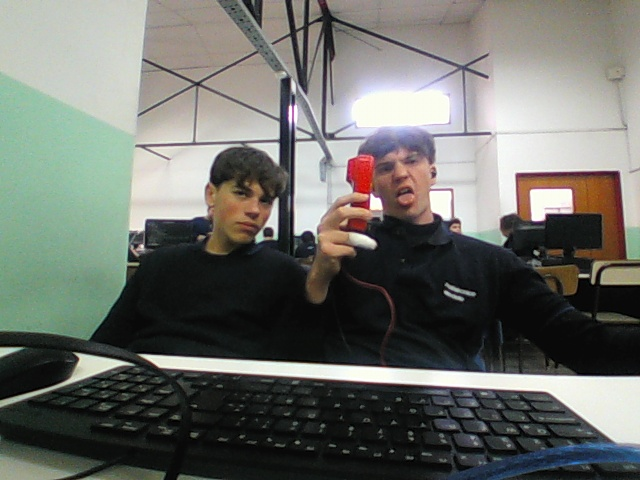
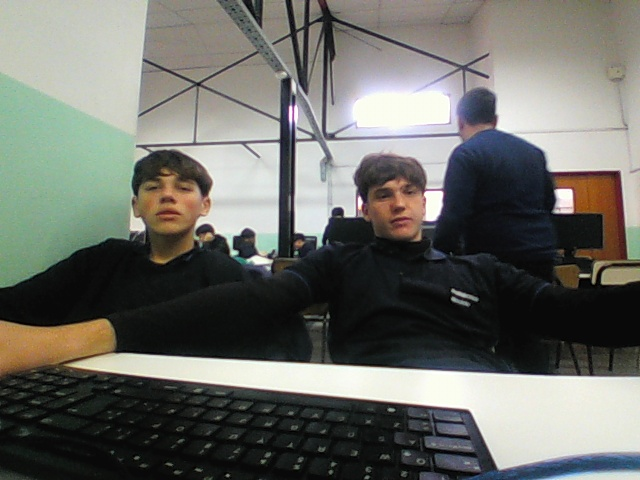
toma pa vos san

diff --git a/codigos/pruebas/fotopyserial.py b/codigos/pruebas/fotopyserial.py
@@ -1,50 +1,46 @@
 import serial
 import cv2
 import os
-import time 
-# Ruta personalizada (puedes cambiarla)
-ruta_guardado = "/home/ta-te-ti/Escritorio/Tateti/Proyecto-Ta-te-ti/imagenes/pygamefoto1.jpg"
+import time
 
-# Asegúrate de que la carpeta exista
+
+from analIsis import detectar_rojo_en_imagen
+
+# Ruta personalizada
+ruta_guardado = "/home/ta-te-ti/Escritorio/Tateti/Proyecto-Ta-te-ti/imagenes/pygamefoto1.jpg"
 os.makedirs(os.path.dirname(ruta_guardado), exist_ok=True)
 
-# Abrir la cámara
+# Abrir cámara
 cap = cv2.VideoCapture(0)
 if not cap.isOpened():
     print("No se pudo abrir la cámara.")
     exit()   
 
-
-
-# Cambia 'COM3' por el puerto de tu Arduino.
-# En Linux probablemente sea '/dev/ttyUSB0' o '/dev/ttyACM0'
+# Conexión serial
 puerto = '/dev/ttyUSB0'
 baudrate = 9600
-
-# Abre la conexión serial
 ser = serial.Serial(puerto, baudrate, timeout=1)
 
 print("Escuchando datos del Arduino...")
 
 try:
     while True:
-        # Lee una línea del puerto serial
         ret, frame = cap.read()
-        if ser.in_waiting>0:
+        if ser.in_waiting > 0:
             linea = ser.readline().decode('utf-8').strip()
-            
-            print(f"Arduino dice:{linea}")
+            print(f"Arduino dice: {linea}")
+
             if ret:
                 cv2.imwrite(ruta_guardado, frame)
-                print(f"Foto guardada en: {ruta_guardado}") 
+                print(f"📸 Foto guardada en: {ruta_guardado}")
+
+               
+                detectar_rojo_en_imagen(ruta_guardado)
             else:
-                print("No se pudo capturar la imagen")
-            
-                
+                print("❌ No se pudo capturar la imagen")
 
 except KeyboardInterrupt:
     print("Programa terminado por el usuario.")
 finally:
     ser.close()
-
-cap.release()
+    cap.release()

diff --git a/codigos/pruebas/analIsis.py b/codigos/pruebas/analIsis.py
@@ -1,0 +1,41 @@
+import cv2
+import numpy as np
+
+def detectar_rojo_en_imagen(ruta_imagen):
+    imagen = cv2.imread(ruta_imagen)
+    if imagen is None:
+        print("⚠ No se pudo cargar la imagen.")
+        return
+
+    alto, ancho = imagen.shape[:2]
+    tercio_alto = alto // 3
+    tercio_ancho = ancho // 3
+
+    hsv = cv2.cvtColor(imagen, cv2.COLOR_BGR2HSV)
+
+    rojo_bajo1 = np.array([0, 100, 100])
+    rojo_alto1 = np.array([10, 255, 255])
+    rojo_bajo2 = np.array([160, 100, 100])
+    rojo_alto2 = np.array([180, 255, 255])
+
+    mascara1 = cv2.inRange(hsv, rojo_bajo1, rojo_alto1)
+    mascara2 = cv2.inRange(hsv, rojo_bajo2, rojo_alto2)
+    mascara_rojo = cv2.bitwise_or(mascara1, mascara2)
+
+    contornos, _ = cv2.findContours(mascara_rojo, cv2.RETR_EXTERNAL, cv2.CHAIN_APPROX_SIMPLE)
+
+    celdas_detectadas = set()
+
+    for contorno in contornos:
+        area = cv2.contourArea(contorno)
+        if area > 100:
+            M = cv2.moments(contorno)
+            if M["m00"] != 0:
+                cx = int(M["m10"] / M["m00"])
+                cy = int(M["m01"] / M["m00"])
+                columna = cx // tercio_ancho
+                fila = cy // tercio_alto
+
+                if (fila, columna) not in celdas_detectadas:
+                    celdas_detectadas.add((fila, columna))
+                    print(f"🟥 Rojo detectado en fila {fila}, columna {columna}")
